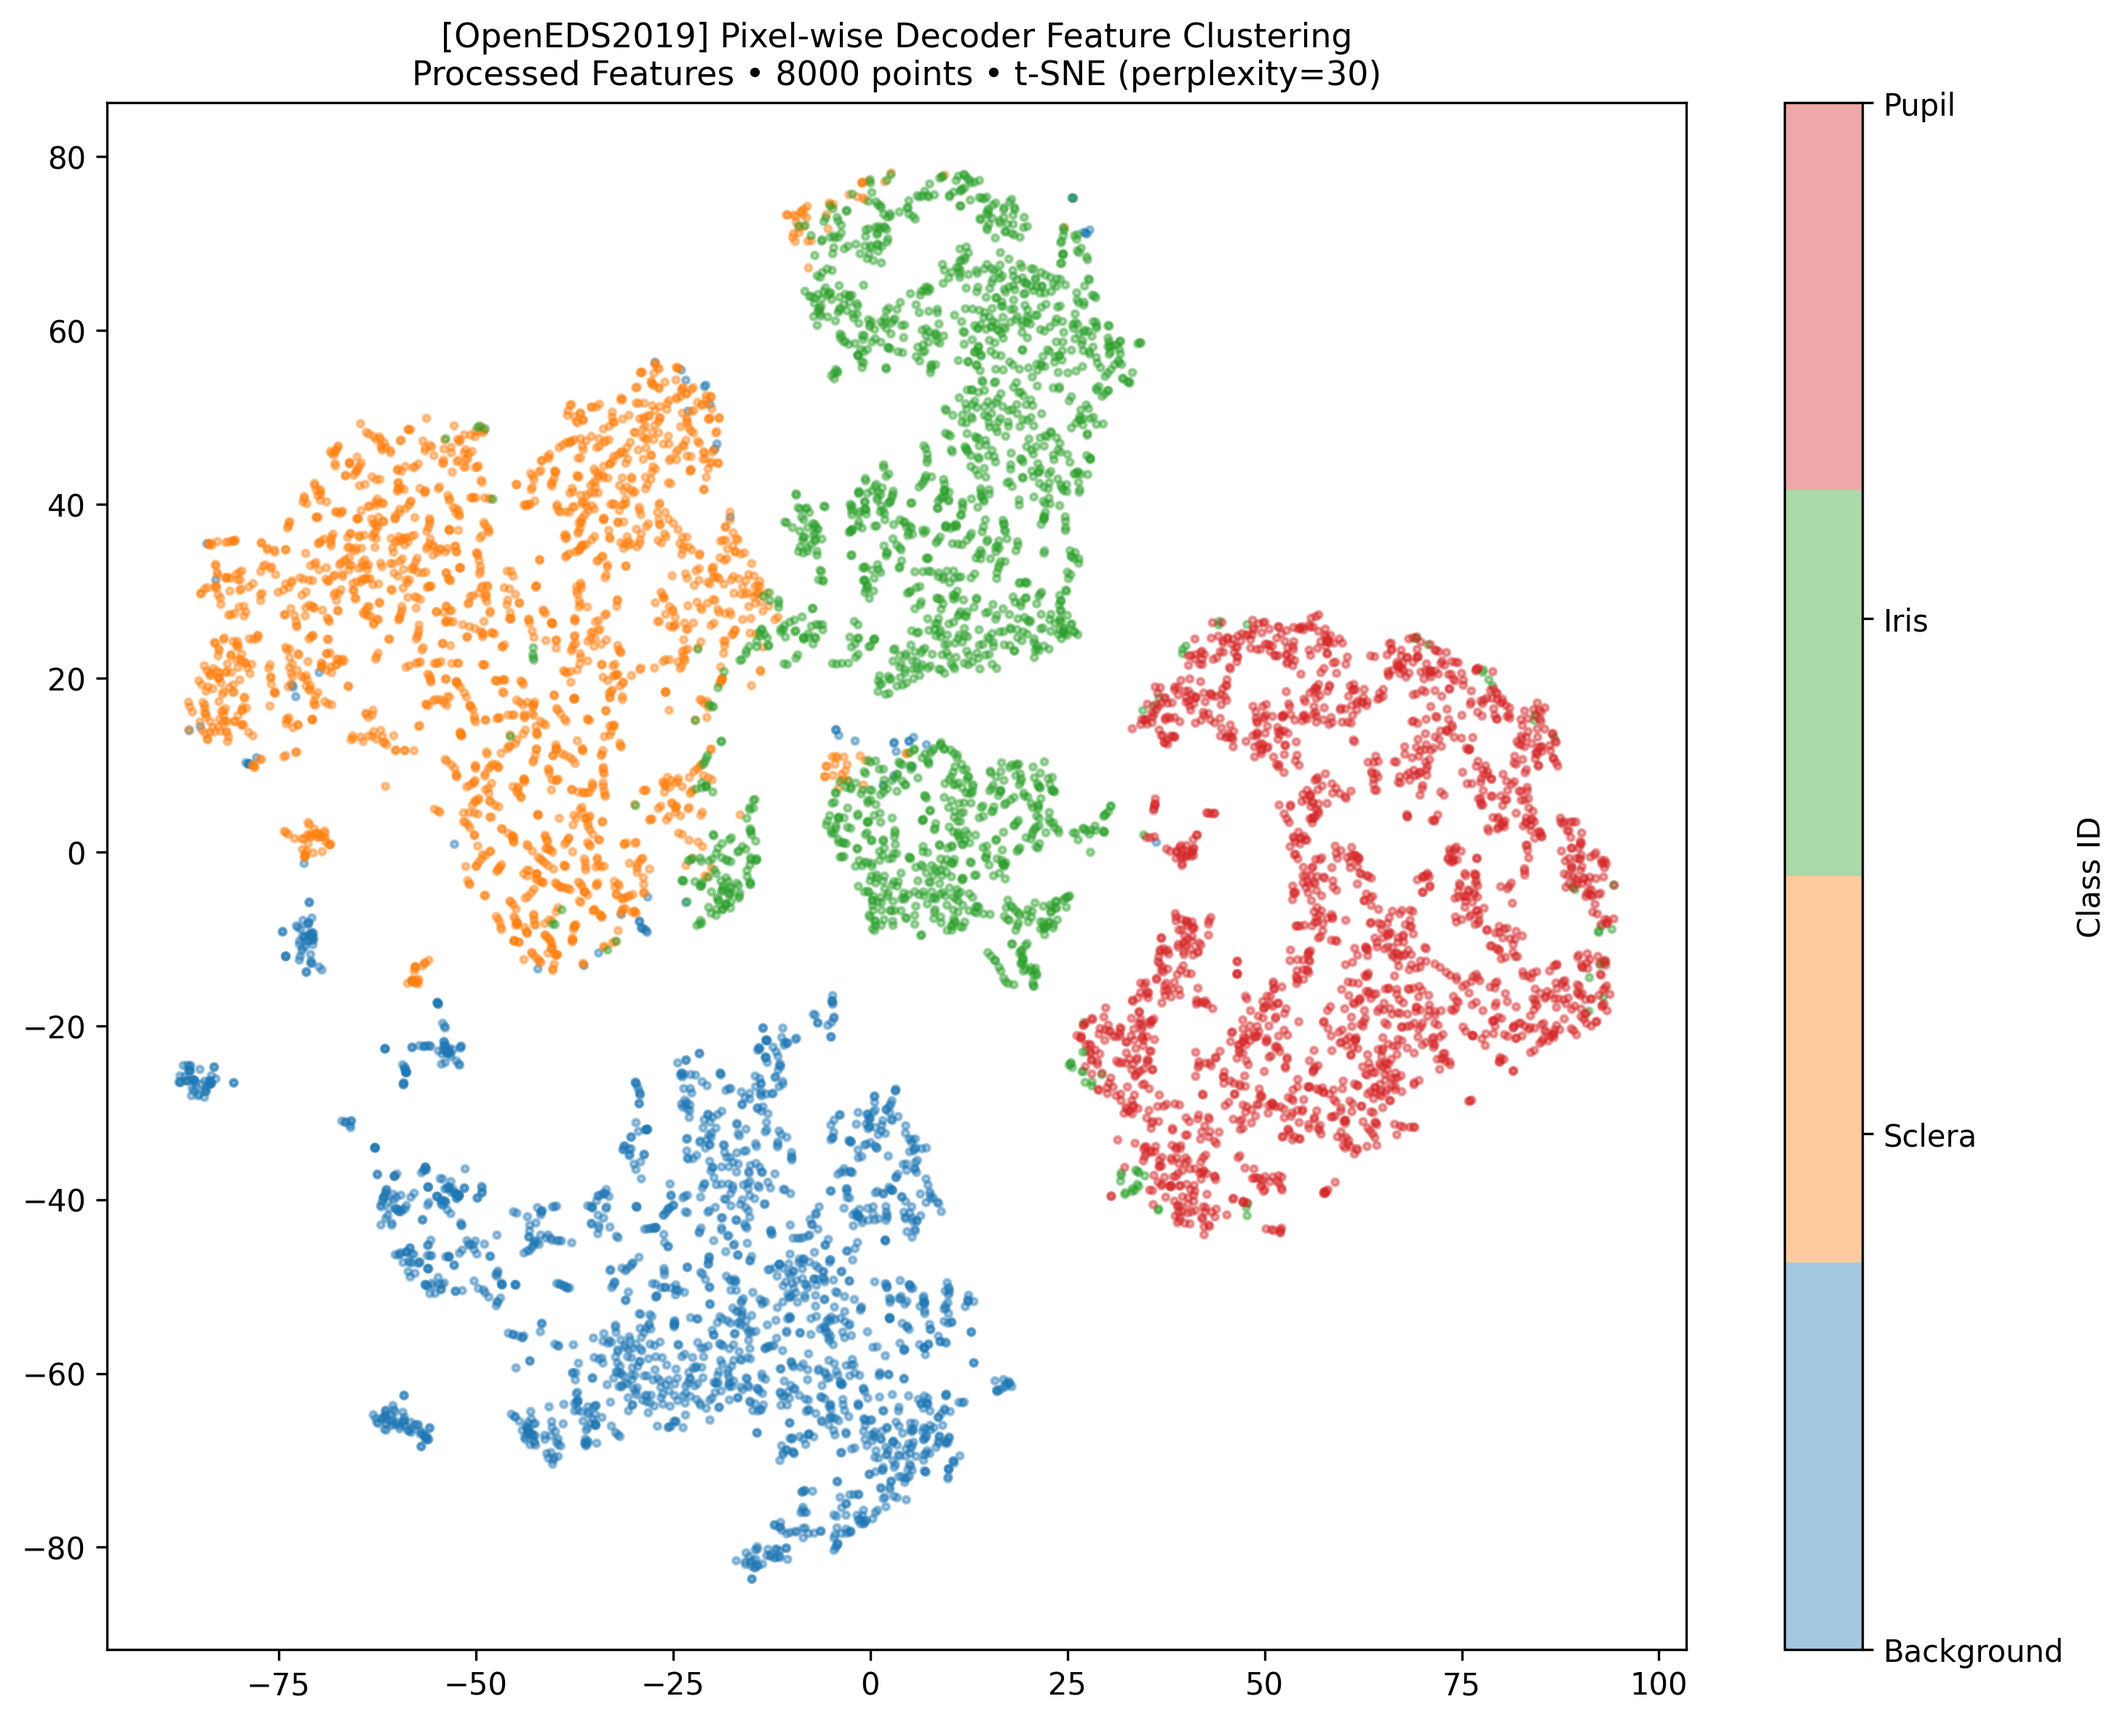
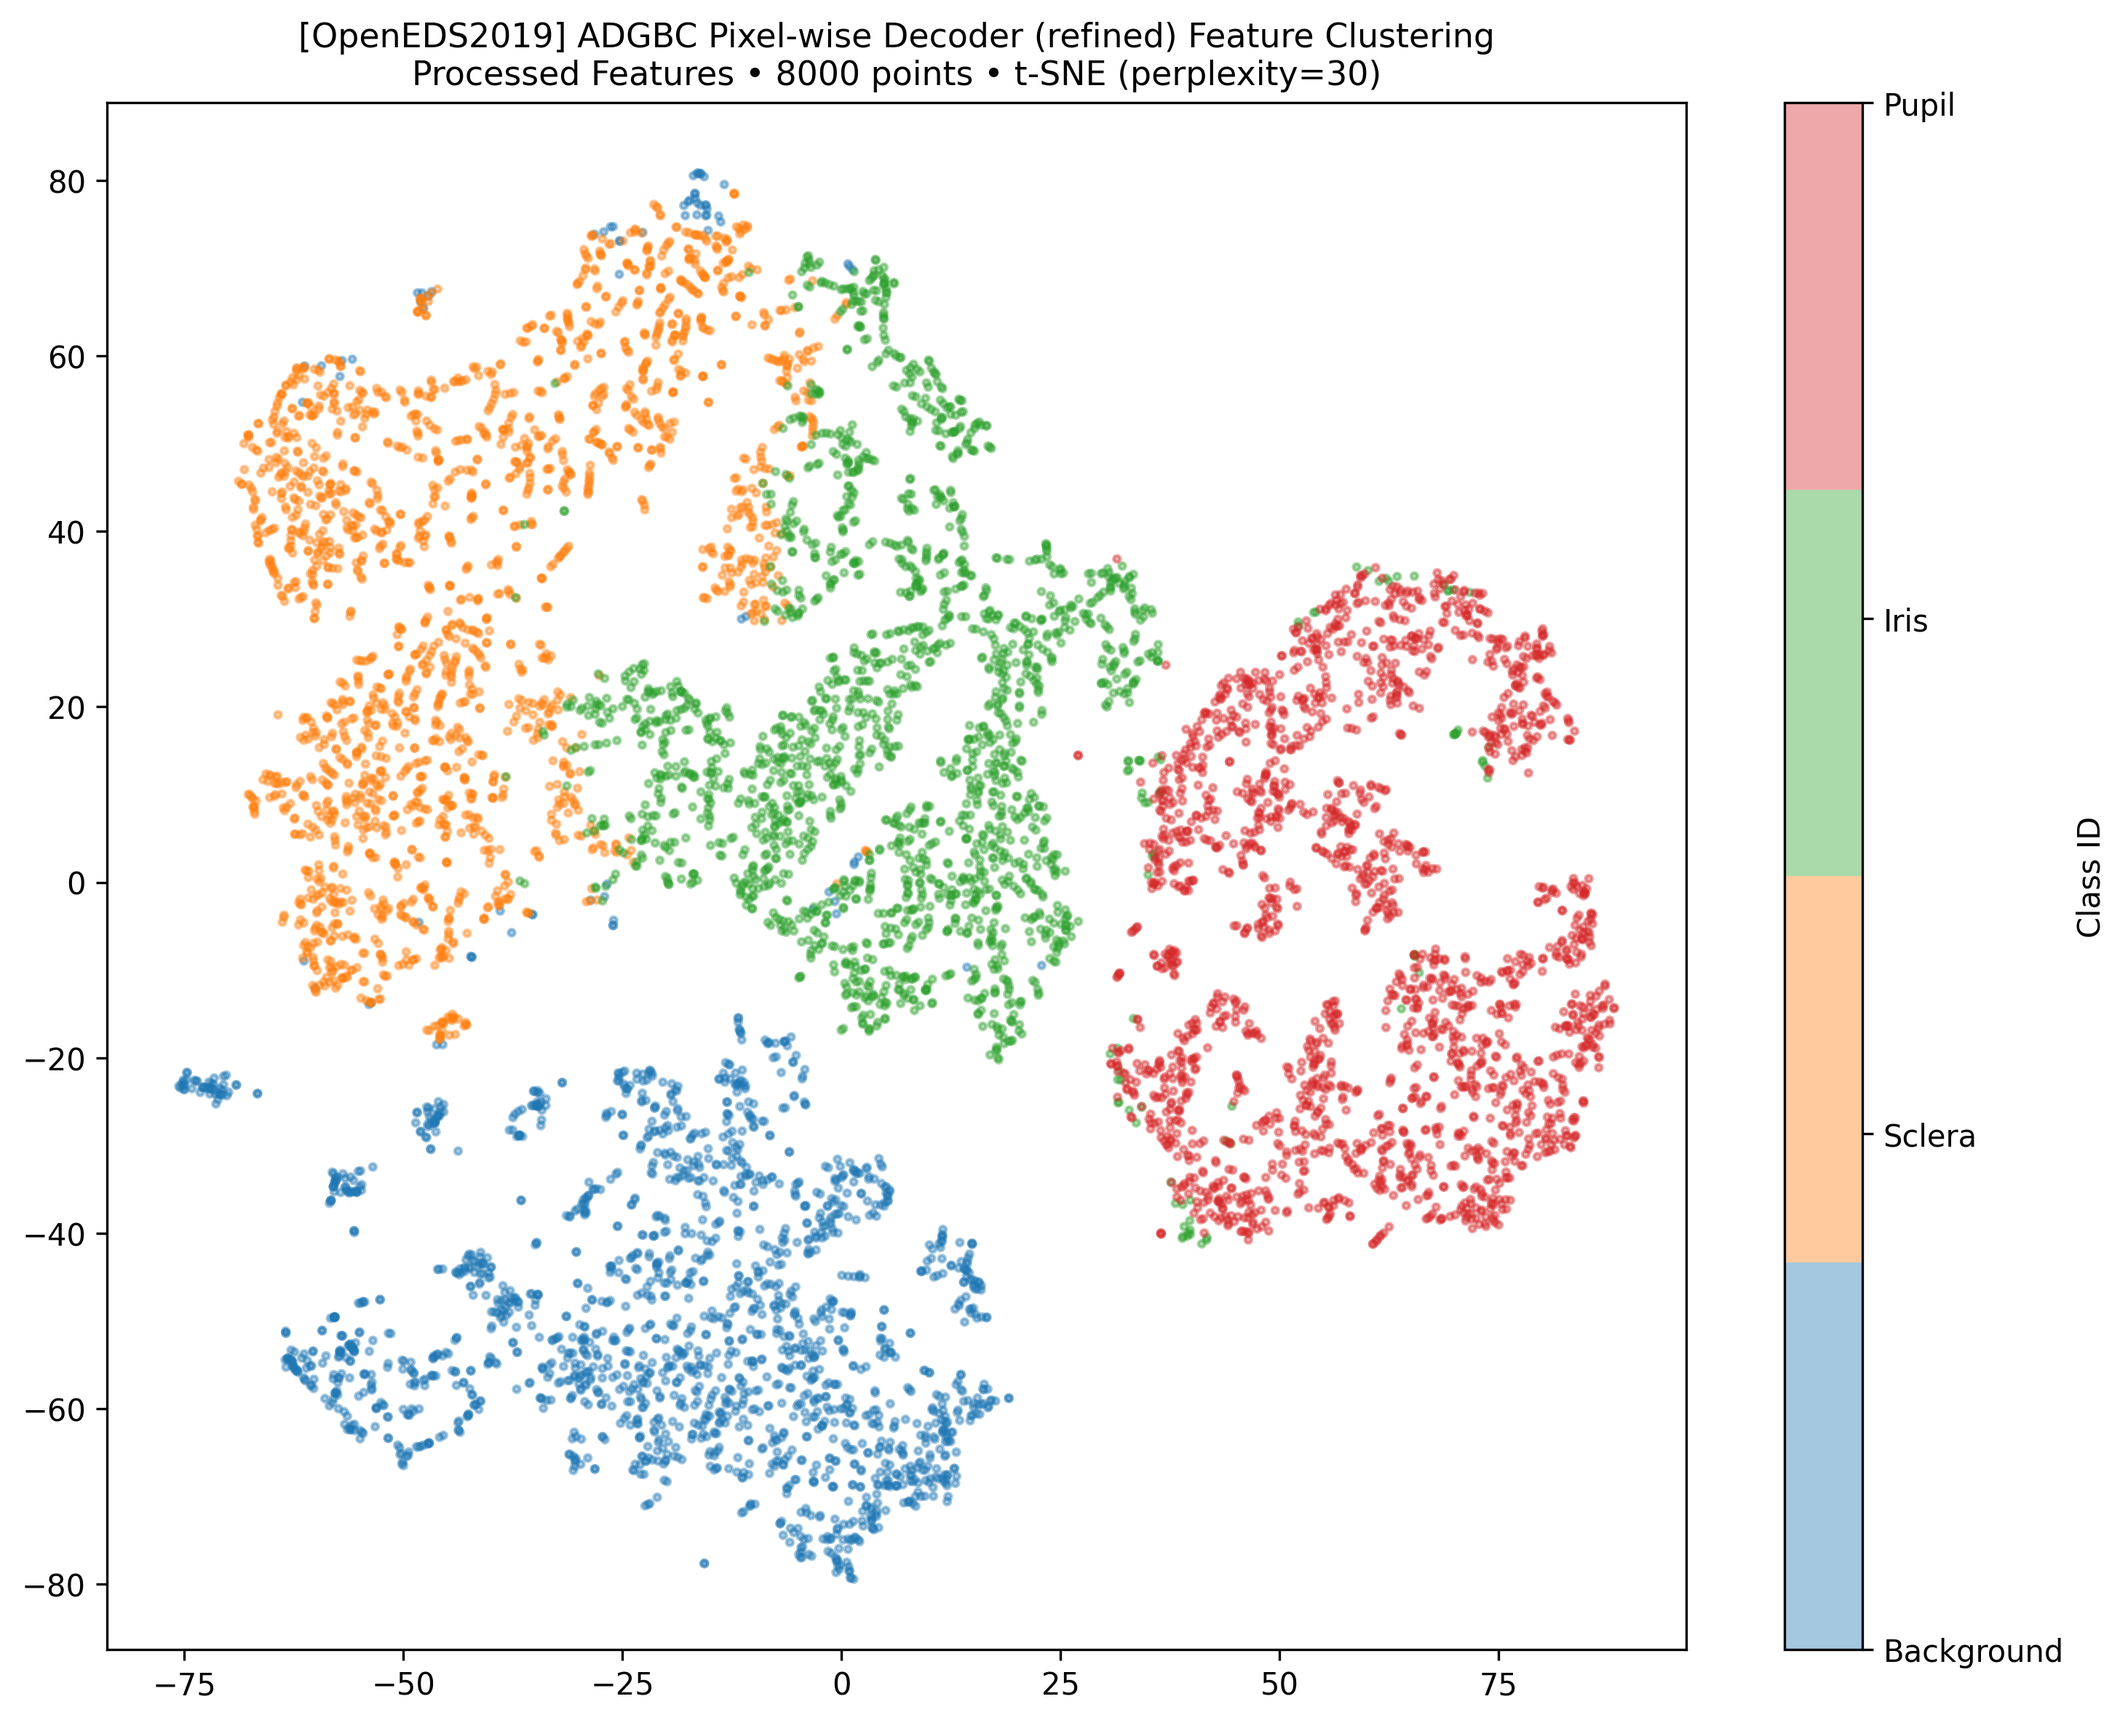
Bufgix: Visualization works for K-means too

diff --git a/feature_cluster_exp/tsne.py b/feature_cluster_exp/tsne.py
@@ -15,7 +15,8 @@ Options
 --actual_ratio      Sample proportional to the actual per-class pixel ratio
                     instead of the uniform samples_per_class cap
 --three_imgs        Save separate t-SNE plots for the three feature stages:
-                    Before (pre-GBC), Enc (post-GBC) and Dec (refined decoder)
+                    Before (pre-cluster), Enc (post-cluster) and Dec (refined
+                    decoder). Works with ADGBC / DGBC / KMeans models
 --pupil_only        Binary: Pupil vs Else (default)
 --all_classes       Full 4-class: Background / Sclera / Iris / Pupil
 --output            Output path (default: auto-generated in tsne_results/)
@@ -141,7 +142,7 @@ if __name__ == "__main__":
         "--center",
         action="store_true",
         default=False,
-        help="Visualize GBC cluster centers on the t-SNE plot",
+        help="Visualize cluster centers (GBC / KMeans) on the t-SNE plot",
     )
     parser.add_argument(
         "--pca",
@@ -167,8 +168,9 @@ if __name__ == "__main__":
         default=False,
         help=(
             "Save separate t-SNE plots for the three feature stages: "
-            "Before (pre-GBC encoder), Enc (post-GBC encoder) and "
-            "Dec (refined decoder). Requires a GBC model (ADGBC/DGBC)."
+            "Before (pre-cluster encoder), Enc (post-cluster encoder) and "
+            "Dec (refined decoder). Requires a clustering model "
+            "(ADGBC/DGBC/KMeans)."
         ),
     )
     args = parser.parse_args()
@@ -236,10 +238,10 @@ if __name__ == "__main__":
         gbc_num_balls = None
         print(f"[INFO] Model architecture: UNeXt (no cluster centers)")
 
-    if args.three_imgs and not (ADGBC_match or DGBC_match):
+    if args.three_imgs and not (ADGBC_match or DGBC_match or KMeans_match):
         parser.error(
-            "--three_imgs requires a GBC model (ADGBC/DGBC) whose forward "
-            "returns pre/post-GBC features via return_details=True."
+            "--three_imgs requires a clustering model (ADGBC/DGBC/KMeans) "
+            "whose forward returns pre/post-cluster features via return_details=True."
         )
 
     np.random.seed(args.seed)
@@ -340,8 +342,8 @@ if __name__ == "__main__":
     # Each spec: (title label for the plot, filename tag)
     if args.three_imgs:
         feature_specs = [
-            ("Before (pre-GBC)", "Before"),
-            ("Encoder (post-GBC)", "Enc"),
+            ("Before (pre-cluster)", "Before"),
+            ("Encoder (post-cluster)", "Enc"),
             ("Decoder (refined)", "Dec"),
         ]
     elif args.dec:
@@ -399,9 +401,9 @@ if __name__ == "__main__":
 
             # Extract feature stages
             if args.three_imgs:
-                # return_details=True → (out, t3, t3_gbc, att_t3, dec_feature)
-                _, t3, t3_gbc, att_t3, dec_feature = model(batch_imgs, return_details=True)
-                feats_map = {"Before": t3, "Enc": t3_gbc, "Dec": dec_feature}
+                # return_details=True → (out, t3, t3_clustered, att_t3, dec_feature)
+                _, t3, t3_clustered, att_t3, dec_feature = model(batch_imgs, return_details=True)
+                feats_map = {"Before": t3, "Enc": t3_clustered, "Dec": dec_feature}
             else:
                 _, enc_feature, dec_feature = model(batch_imgs)
                 feats_map = {"Enc": enc_feature, "Dec": dec_feature}
@@ -439,7 +441,7 @@ if __name__ == "__main__":
     # ── GBC center setup ──────────────────────────────────────────────────
     has_gbc_centers = hasattr(model, 'gbc') and hasattr(model.gbc, 'centers')
     if (args.center or args.pca) and not has_gbc_centers:
-        print(f"[WARNING] Model '{model_prefix}' does not have GBC cluster centers. Center visualization disabled.")
+        print(f"[WARNING] Model '{model_prefix}' does not have cluster centers. Center visualization disabled.")
         show_centers = False
     else:
         show_centers = (args.center or args.pca) and has_gbc_centers
@@ -502,7 +504,7 @@ if __name__ == "__main__":
             method_name = "PCA"
             marker_style = "*"
             marker_size = 140
-            center_label = "PCA Centers (*)"
+            center_label = f"PCA {'KMeans' if KMeans_match else 'GBC'} Centers (*)"
             var_pct = pca.explained_variance_ratio_.sum() * 100
             method_detail = f"PCA (Explained Var: {var_pct:.1f}%)"
             reduction_tag = "pca"
@@ -515,7 +517,7 @@ if __name__ == "__main__":
             )
             if stage_show_centers:
                 all_points = np.vstack([X, centers])
-                print(f"[INFO] [{tag}] Running t-SNE on {X.shape[0]} feature elements + {gbc_num_balls} GBC centers (perplexity={args.perplexity}) …")
+                print(f"[INFO] [{tag}] Running t-SNE on {X.shape[0]} feature elements + {gbc_num_balls} cluster centers (perplexity={args.perplexity}) …")
                 emb = tsne.fit_transform(all_points)
                 X_embedded = emb[:len(X)]
                 centers_embedded = emb[len(X):]
@@ -526,7 +528,7 @@ if __name__ == "__main__":
             method_name = "t-SNE"
             marker_style = "^"
             marker_size = 80
-            center_label = "GBC Centers (^)"
+            center_label = f"{'KMeans' if KMeans_match else 'GBC'} Centers (^)"
             method_detail = f"t-SNE (perplexity={args.perplexity})"
             reduction_tag = "tsne"
 

diff --git a/nnunetv2/training/nnUNetTrainer/archs_K_means_UNet.py b/nnunetv2/training/nnUNetTrainer/archs_K_means_UNet.py
@@ -586,7 +586,7 @@ class Kmeans_encoder(nn.Module):
         )
         self.gbc = self.kmeans_block  # Backward-compatible alias for trainer inspection
 
-    def forward(self, x):
+    def forward(self, x, return_details=False):
         B = x.shape[0]
 
         ### Conv Stage
@@ -653,4 +653,7 @@ class Kmeans_encoder(nn.Module):
             }
             return out, loss_intermediates
         else:
+            if return_details:
+                # Pre-cluster (t3) and post-cluster (t3_km) encoder features
+                return out, t3, t3_km, att_t3, dec_feature
             return out, enc_feature, dec_feature
